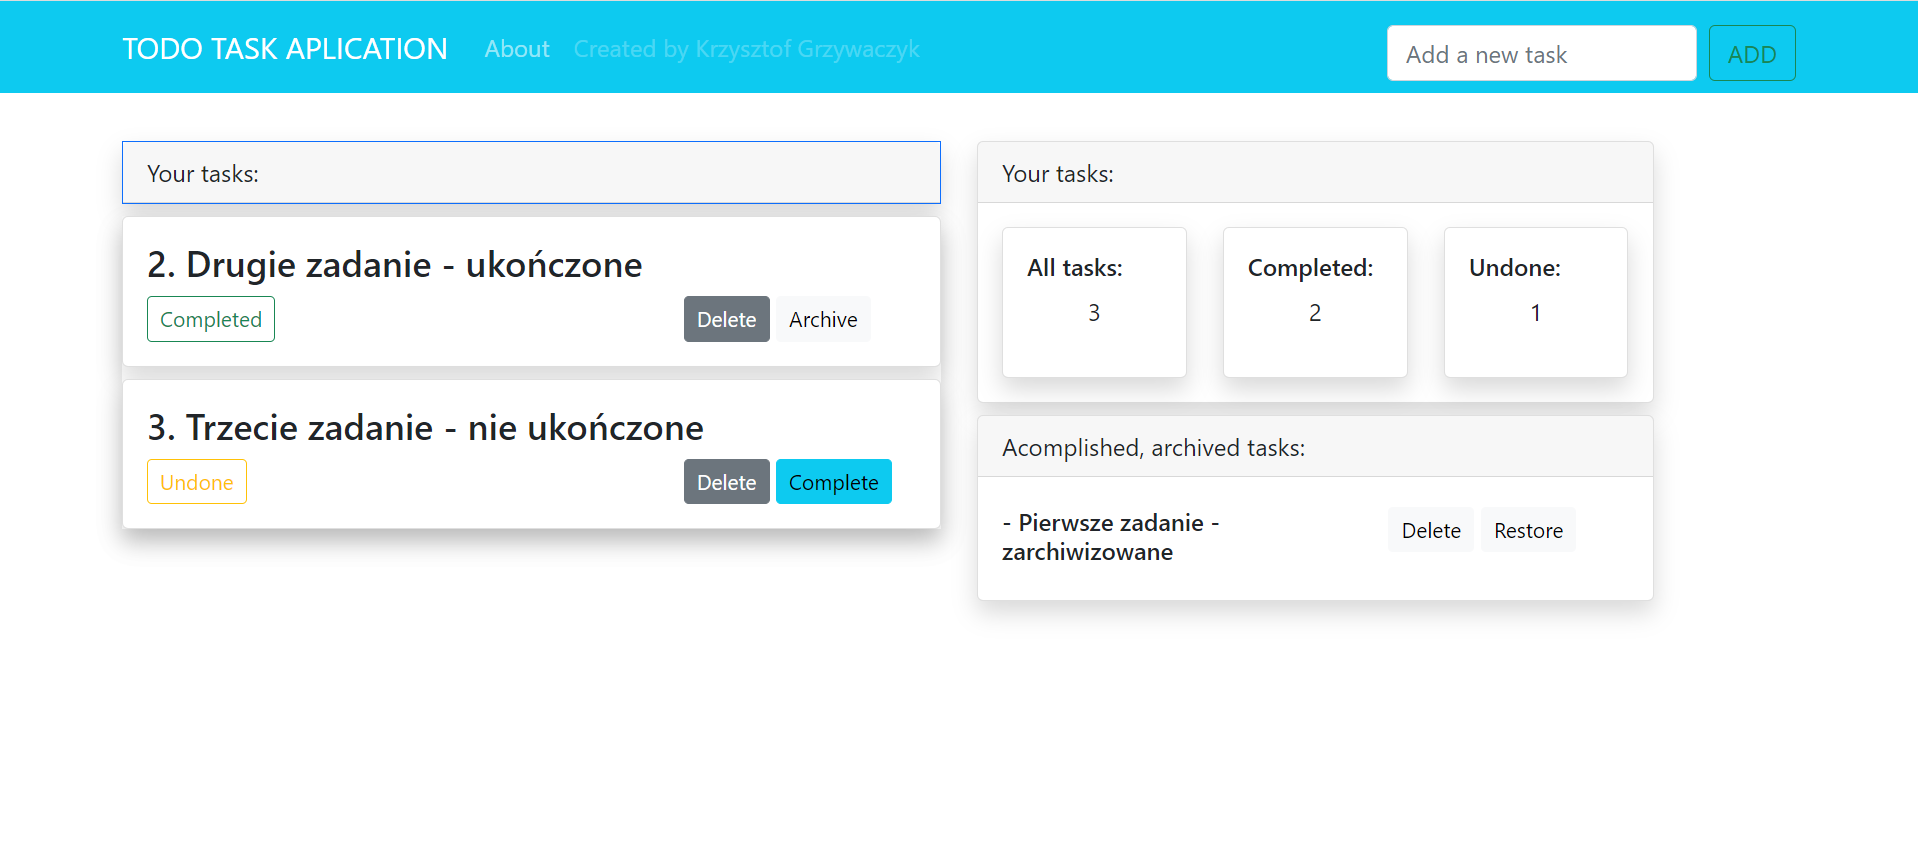
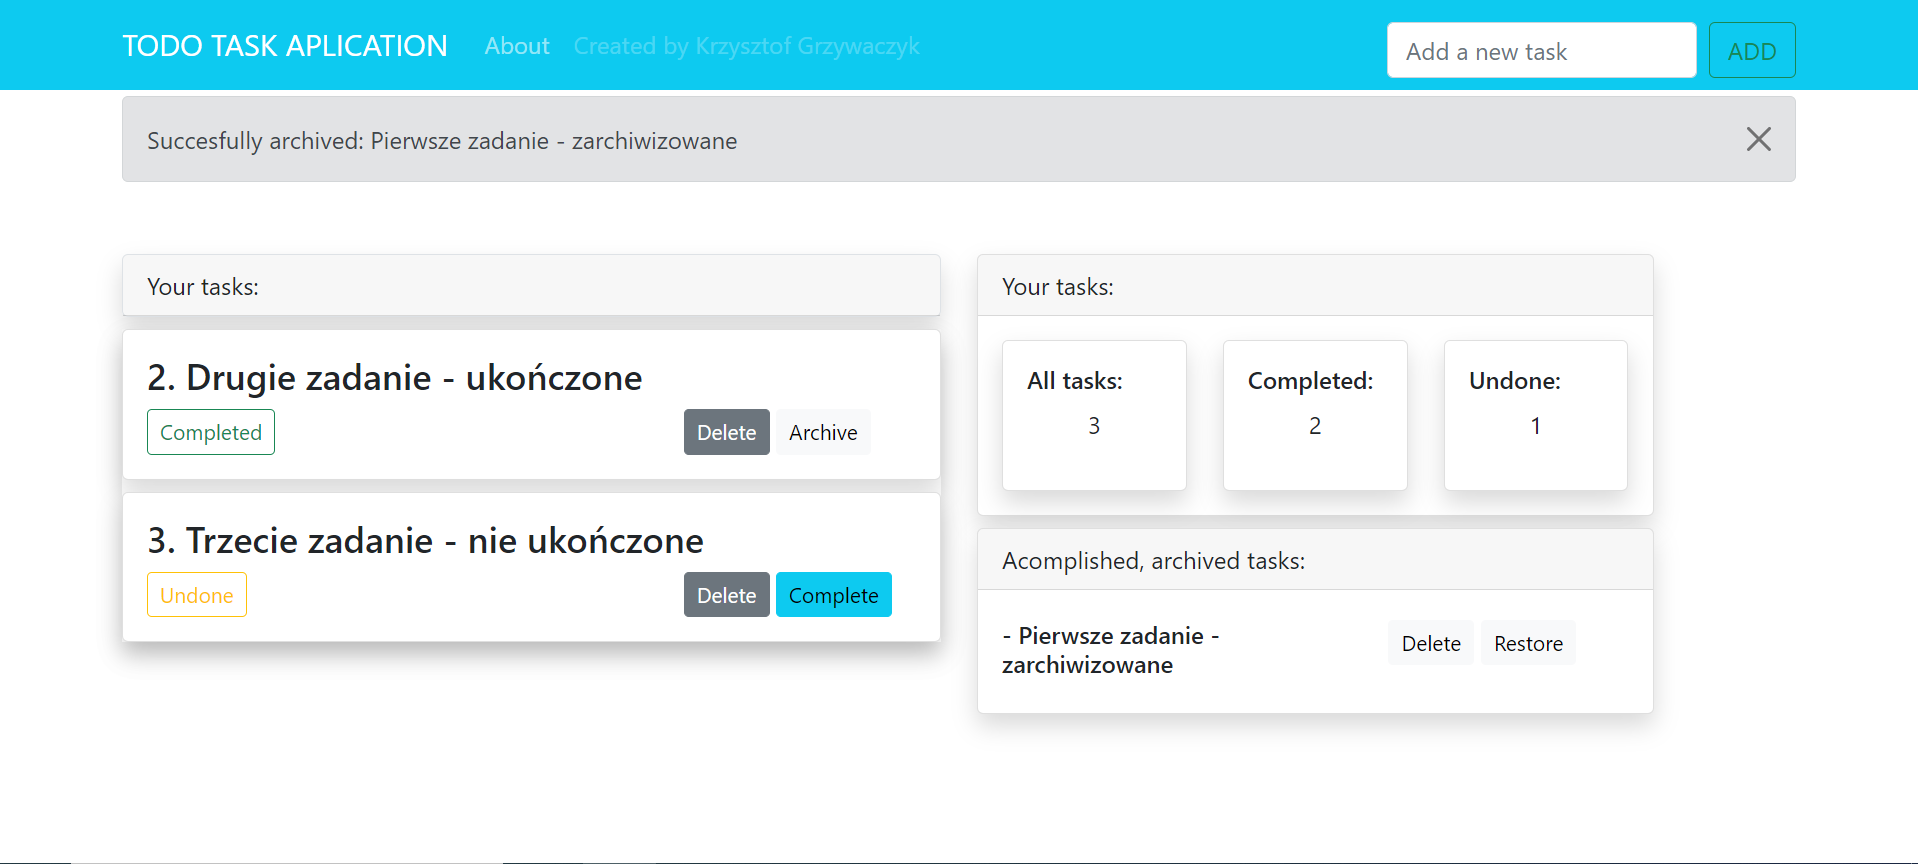
Implement flashing messages

diff --git a/templates/dashboard/popup.html b/templates/dashboard/popup.html
@@ -1,0 +1,21 @@
+{% extends "base.html" %}
+{% block content %}
+
+<body>
+
+<center>
+<form name='myForm' method="post" action="{{ url_for('signup') }}" style='text-align: center;'>
+  <p>Email</p>
+  <input type="email" name="email" placeholder='Enter you email adress' required oninvalid="setCustomValidity('Please enter a valid email ')" onchange="try{setCustomValidity('')}catch(e){}"></input>
+  <p>Username</p>
+  <input type="text" name="user" placeholder='Enter your username' required></input>
+  <p>Password</p>
+  <input type="password" name="password" placeholder='Enter your password' required></input>
+  <br><br>
+  <input type="submit" value="Signup"></input>
+   <a href="{{ url_for('home') }}" class='button_link'>Cancel</a>
+</form>
+</center>
+
+</body>
+{% endblock %}

diff --git a/templates/partials/base.html b/templates/partials/base.html
@@ -17,6 +17,7 @@
   </head>
   <body>
     {% include 'partials/menu.html' %}
+      
     {% block task %}
     <!-- Optional JavaScript; choose one of the two! -->
     {% endblock %}
@@ -28,9 +29,10 @@
     crossorigin="anonymous"></script>
 
     <!-- Option 2: Separate Popper and Bootstrap JS -->
-    <!--
+<!--     
     <script src="https://cdn.jsdelivr.net/npm/@popperjs/core@2.10.2/dist/umd/popper.min.js" integrity="sha384-7+zCNj/IqJ95wo16oMtfsKbZ9ccEh31eOz1HGyDuCQ6wgnyJNSYdrPa03rtR1zdB" crossorigin="anonymous"></script>
     <script src="https://cdn.jsdelivr.net/npm/bootstrap@5.1.3/dist/js/bootstrap.min.js" integrity="sha384-QJHtvGhmr9XOIpI6YVutG+2QOK9T+ZnN4kzFN1RtK3zEFEIsxhlmWl5/YESvpZ13" crossorigin="anonymous"></script>
     -->
+    
   </body>
 </html>

diff --git a/templates/partials/menu.html b/templates/partials/menu.html
@@ -33,4 +33,15 @@
         </form>
       </div>
     </div>
-  </nav>
+  </nav> 
+  {% with messages = get_flashed_messages(with_categories=true) %}
+  {% for category, message in messages %}
+  <div class="container mt-1">
+    <div class="alert alert-{{category}} alert-dismissible fade show" role="alert">
+      <span>{{message}}</span>
+      <button class="btn-close" data-bs-dismiss="alert" aria-label="Close"></button>
+      </button>
+    </div>
+  </div>  
+  {% endfor %}
+  {% endwith %}

diff --git a/app.py b/app.py
@@ -10,7 +10,7 @@ and also Bootstrap for stylistic purposes.
 """
 
 
-from flask import Flask, redirect, render_template, request, url_for
+from flask import Flask, flash, redirect, render_template, request, url_for
 from flask_sqlalchemy import SQLAlchemy
 
 
@@ -37,6 +37,11 @@ def add():
     new_task = Task(name = name)
     db.session.add(new_task)
     db.session.commit()
+
+    if request.method == 'POST':
+        name = request.form.get("name")
+        flash(f'Succesfully created task: {name}', 'success')
+
     return redirect(url_for('index'))
 
 
@@ -45,14 +50,22 @@ def archive(id):
     task = Task.query.filter_by(id=id).first()
     task.active = not task.active
     db.session.commit()
+    if task.active:
+        flash(f'Succesfully restored: {task.name}', 'secondary')
+    else:
+        flash(f'Succesfully archived: {task.name}', 'secondary')
     return redirect(url_for('index'))
 
 
 @app.route('/delete/<id>')
 def delete(id : bool):
     task = Task.query.filter_by(id=id).first()
+    if task:
+        name = task.name
+        flash(f'Succesfully deleted task: {name}', 'warning')
     db.session.delete(task)
     db.session.commit()
+
     return redirect(url_for('index'))
 
 
@@ -79,4 +92,6 @@ def about():
 
 
 if __name__ == '__main__':
+    app.secret_key = 'super secret key'
+
     app.run(debug=True)
